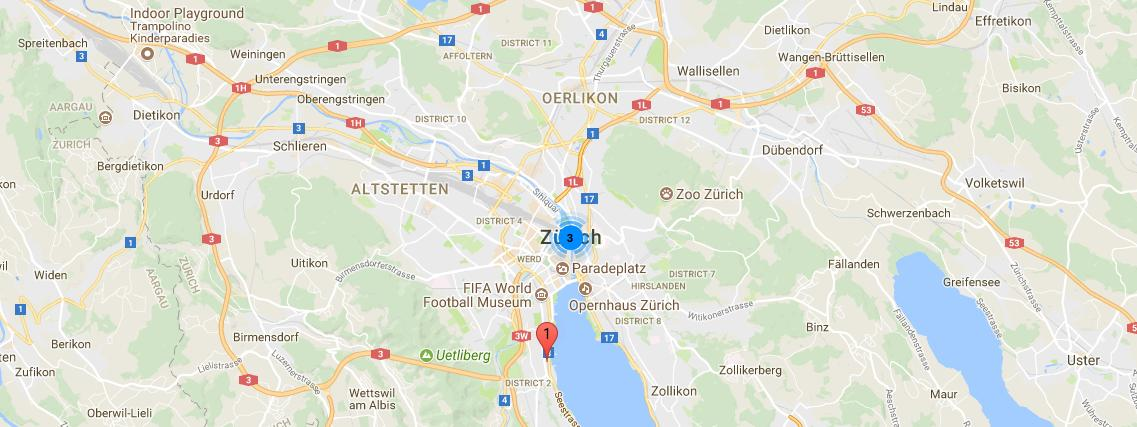
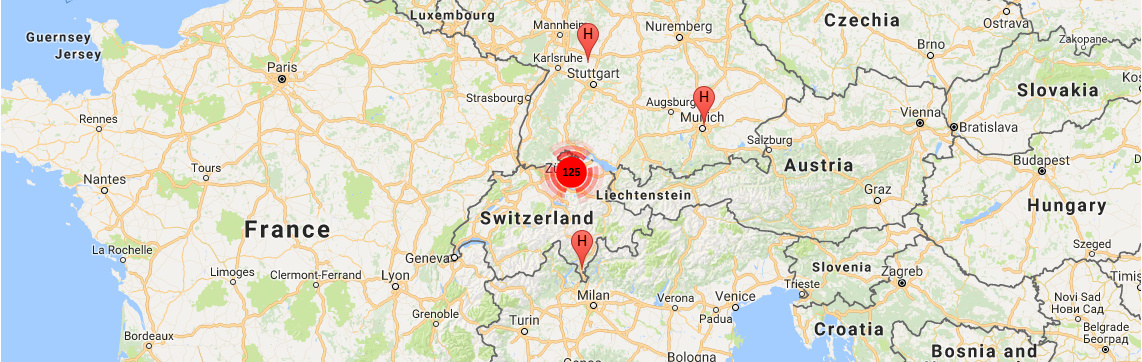
Delay geocoding requests in client to avoid OVER_QUERY_LIMIT errors.

diff --git a/infographics/templates/index.html b/infographics/templates/index.html
@@ -6,8 +6,17 @@
 {% block content %}
 <h2 class="ion-person-stalker"> Where Helbling Wil lives</h1>
 <p>Zoom into the map and move around to see where we live.</p>
+<div class="progress">
+  <div class="progress-bar" role="progressbar" aria-valuenow="60" aria-valuemin="0"
+       aria-valuemax="100" style="width: 2em; min-width: 2em;">Loading markers ...</div>
+</div>
 <div id="map" style="height: 600px; width:100%; margin-top:10px"></div>
 <script>
+  function sleep(miliseconds) {
+    var currentTime = new Date().getTime();
+    while (currentTime + miliseconds >= new Date().getTime()) { }
+  }
+
   var geocoder;
   var map;
   function initialize() {
@@ -15,7 +24,7 @@
     var latlng = new google.maps.LatLng(47.3, 8.7);
     // var latlng = new google.maps.LatLng(46.83779, 8.28087);  // zoom: 8
     var mapOptions = {
-      zoom: 9,
+      zoom: 8,
       center: latlng,
       mapTypeId: google.maps.MapTypeId.ROADMAP
     }
@@ -25,7 +34,21 @@
     // Add a marker clusterer to manage the markers.
     var markerCluster = new MarkerClusterer(map, [], {imagePath: image_path});
 
-    {% for location in locations %}marker = codeAddress("{{ location }}", "1", "1", markerCluster);{% endfor %}
+    var max_delay = 0;
+    {% for location in locations %}
+        var delay = 800 * {{ forloop.counter0 }};
+        max_delay = delay;
+        setTimeout(function()
+        {
+            marker = codeAddress("{{ location }}", "H", "H", markerCluster);
+            var value = 100 * {{ forloop.counter0 }} / ({{ forloop.revcounter0 }} + {{ forloop.counter0 }});
+            $('.progress-bar').css('width', value+'%').attr('aria-valuenow', value);
+        }, delay);
+    {% endfor %}
+    setTimeout(function()
+    {
+        $('.progress-bar').css('width', '100%').attr('aria-valuenow', 100);
+    }, max_delay);
   }
 
   function codeAddress(address, title, id, markerCluster) {
@@ -38,6 +61,9 @@
             label: id
         });
         markerCluster.addMarker(marker);
+      }
+      else {
+        console.log('status not ok: ' + status);
       }
     });
   }
